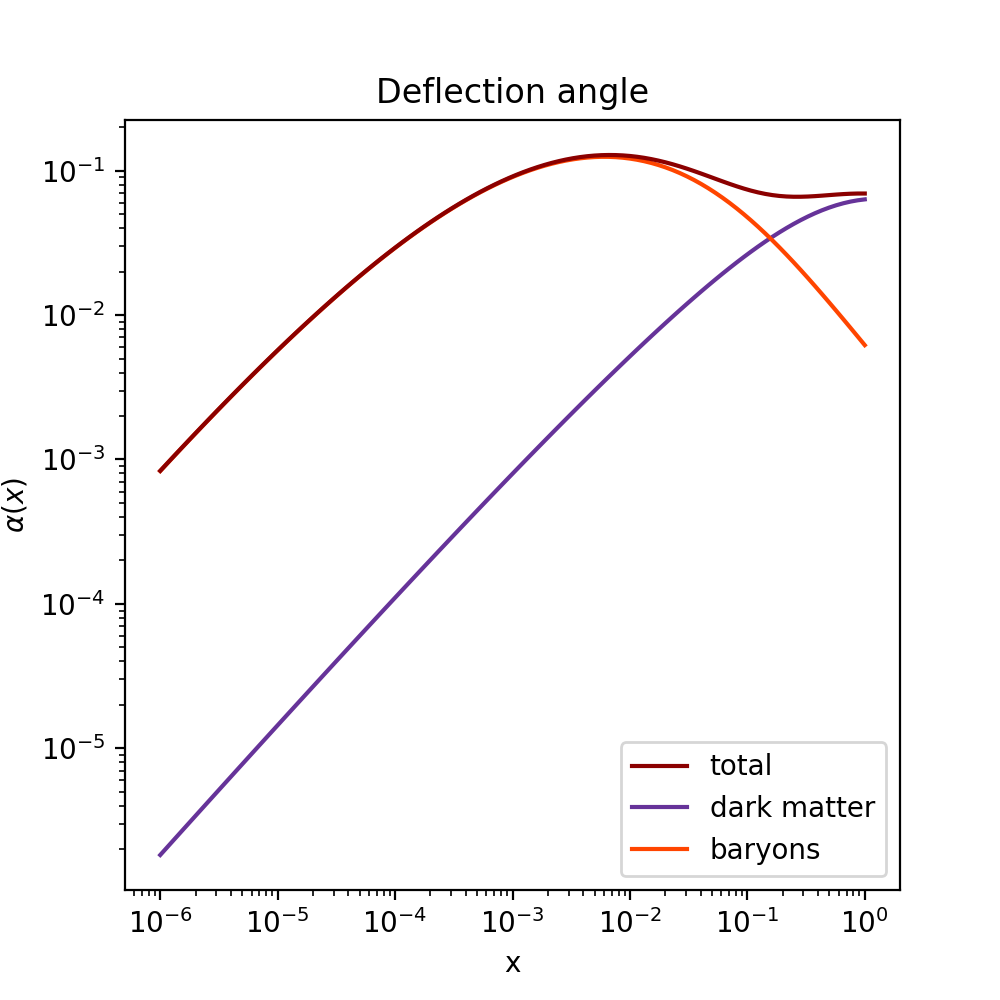
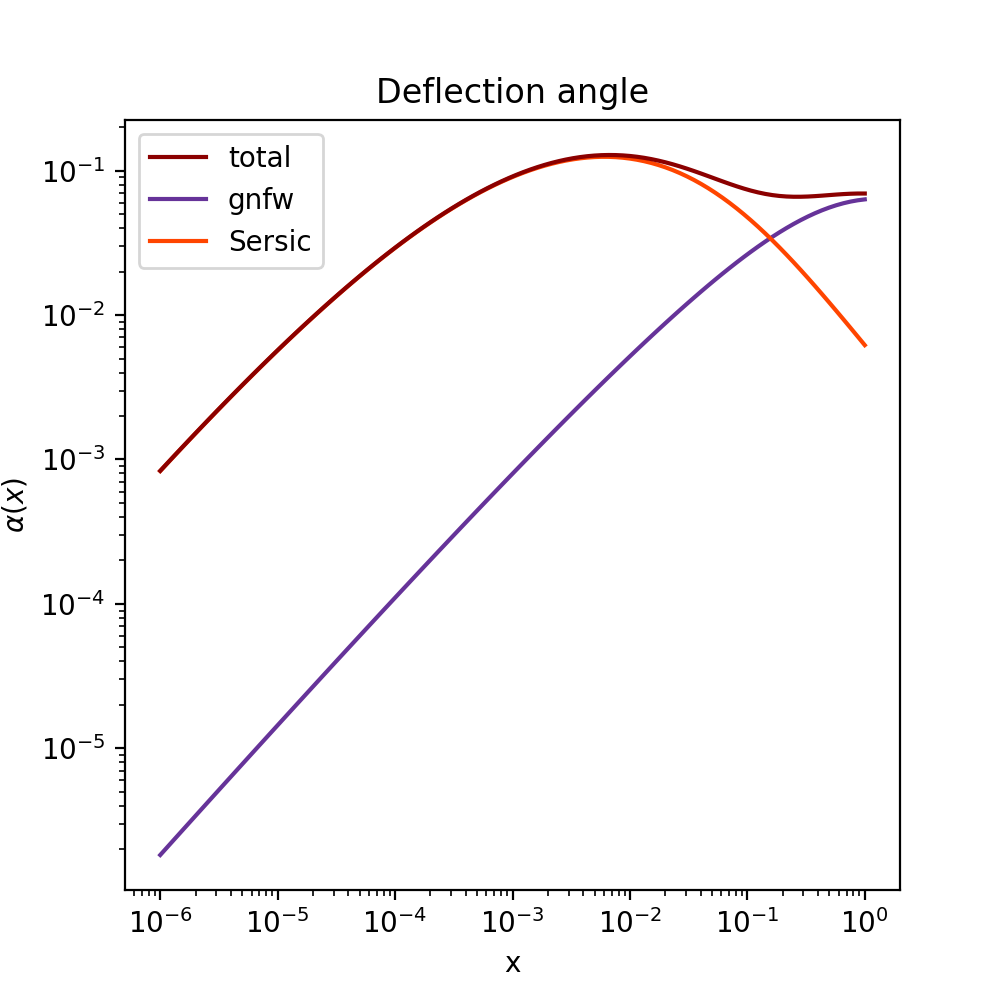
update plots

diff --git a/tutorials/lens_statistics.py b/tutorials/lens_statistics.py
@@ -40,8 +40,8 @@ class lensplot(gnfwSersic):
         Sigma_galaxy = self.Sigma(self._x*self.rs)
         fig,ax = plt.subplots(1,1,figsize=(5,5))
         ax.loglog(self._x,Sigmas,ls='-',color="darkred",label="total",zorder=2) 
-        ax.loglog(self._x,Sigma_gnfw,ls='-',color='rebeccapurple',label="dark matter",zorder=1) 
-        ax.loglog(self._x,Sigma_galaxy,ls='-',color='orangered',label="baryons",zorder=1) 
+        ax.loglog(self._x,Sigma_gnfw,ls='-',color='rebeccapurple',label="gnfw",zorder=1) 
+        ax.loglog(self._x,Sigma_galaxy,ls='-',color='orangered',label="Sersic",zorder=1) 
         ax.set_title("Projected mass density")
         ax.set_xlabel('x')
         ax.set_ylabel(r"$\Sigma(x)$")
@@ -57,8 +57,8 @@ class lensplot(gnfwSersic):
         alpha_galaxy = self.galaxy_alpha(self._x*self.rs,self.Sigmacr,self._x)
         fig,ax = plt.subplots(1,1,figsize=(5,5))
         ax.loglog(self._x,alphas,ls='-',color="darkred",label="total",zorder=2) 
-        ax.loglog(self._x,alpha_gnfw,ls='-',color='rebeccapurple',label="dark matter",zorder=1) 
-        ax.loglog(self._x,alpha_galaxy,ls='-',color='orangered',label="baryons",zorder=1) 
+        ax.loglog(self._x,alpha_gnfw,ls='-',color='rebeccapurple',label="gnfw",zorder=1) 
+        ax.loglog(self._x,alpha_galaxy,ls='-',color='orangered',label="Sersic",zorder=1) 
         ax.set_title("Deflection angle")
         ax.set_xlabel('x')
         ax.set_ylabel(r"$\alpha(x)$")
@@ -78,10 +78,10 @@ class lensplot(gnfwSersic):
                 ls='-',color="darkred",label="total",zorder=2) 
         ax.plot(np.concatenate((-self._x[::-1],0,self._x),axis=None),
                 np.concatenate((-beta_gnfw[::-1],0,beta_gnfw),axis=None),
-                ls='-',color='rebeccapurple',label="dark matter",zorder=1) 
+                ls='-',color='rebeccapurple',label="gnfw",zorder=1) 
         ax.plot(np.concatenate((-self._x[::-1],0,self._x),axis=None),
                 np.concatenate((-beta_galaxy[::-1],0,beta_galaxy),axis=None),
-                ls='-',color='orangered',label="baryons",zorder=1) 
+                ls='-',color='orangered',label="Sersic",zorder=1) 
         ax.set_title("Lens equation")
         ax.set_xlabel('x')
         ax.set_ylabel(r"$\beta(x)$")
@@ -100,8 +100,8 @@ class lensplot(gnfwSersic):
         kappa_galaxy = self.galaxy_kappa(self._x*self.rs,self.Sigmacr)
         fig,ax = plt.subplots(1,1,figsize=(5,5))
         ax.loglog(self._x,kappas,ls='-',color="darkred",label="total",zorder=2) 
-        ax.loglog(self._x,kappa_gnfw,ls='-',color='rebeccapurple',label="dark matter",zorder=1) 
-        ax.loglog(self._x,kappa_galaxy,ls='-',color='orangered',label="baryons",zorder=1) 
+        ax.loglog(self._x,kappa_gnfw,ls='-',color='rebeccapurple',label="gnfw",zorder=1) 
+        ax.loglog(self._x,kappa_galaxy,ls='-',color='orangered',label="Sersic",zorder=1) 
         ax.set_title("Convergence")
         ax.set_xlabel('x')
         ax.set_ylabel(r"$\kappa(x)$")
@@ -118,8 +118,8 @@ class lensplot(gnfwSersic):
         gamma_galaxy = self.galaxy_gamma(self._x*self.rs,self.Sigmacr,self._x)
         fig,ax = plt.subplots(1,1,figsize=(5,5))
         ax.loglog(self._x,gammas,ls='-',color="darkred",label="total",zorder=2) 
-        ax.loglog(self._x,gamma_gnfw,ls='-',color='rebeccapurple',label="dark matter",zorder=1) 
-        ax.loglog(self._x,gamma_galaxy,ls='-',color='orangered',label="baryons",zorder=1) 
+        ax.loglog(self._x,gamma_gnfw,ls='-',color='rebeccapurple',label="gnfw",zorder=1) 
+        ax.loglog(self._x,gamma_galaxy,ls='-',color='orangered',label="Sersic",zorder=1) 
         ax.set_title("Shear")
         ax.set_xlabel('x')
         ax.set_ylabel(r"$\gamma(x)$")
